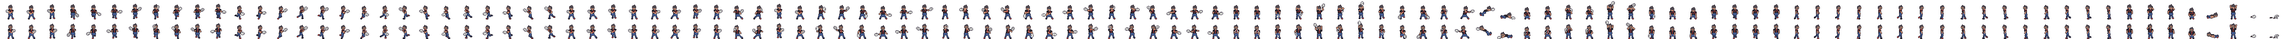
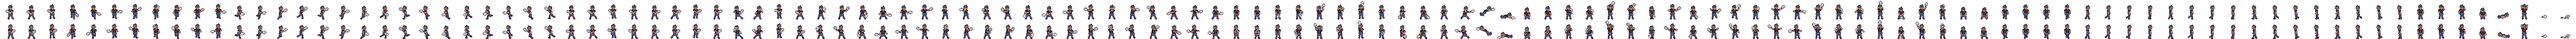
Tenis: los gestos de cada uno (el baile, el grito, la raqueta estrellada...) y el revés a una mano de Fedorer

Changed region(s): [[0.0, 0.5938, 1.0, 1.0], [0.0, 0.0938, 1.0, 0.5]]

diff --git a/tools/art/draw_tenistas.py b/tools/art/draw_tenistas.py
@@ -348,6 +348,38 @@ POSE["levanta1"] = P(kl=(-3, 31), fl=(-4, 33), kr=(3, 31), fr=(4, 33), el=(-6, 2
                      rk=(-120, False), lean=7)
 POSE["levanta2"] = P(**WIDE, el=(-6, 17), hl=(-4, 21), er=(6, 17), hr=(6, 21), rk=(-130, False), lean=4)
 
+# Lo de cada uno, al ganar o perder un punto (TenisAnim.PERSONA dice quién hace qué).
+_STAND = dict(kl=(-3, 27), fl=(-4, 33), kr=(3, 27), fr=(4, 33))
+POSE["encoge"] = P(**_STAND, el=(-8, 16), hl=(-10, 14), er=(8, 16), hr=(10, 14), rk=(-35, False), lean=-1)  # Bublikov: y qué
+POSE["grita"] = P(**WIDE, el=(-6, 17), hl=(-4, 21), er=(6, 17), hr=(4, 21), rk=(65, False), lean=3, yell=True)  # Sabalenkova
+POSE["baila1"] = P(kl=(-3, 27), fl=(-4, 33), kr=(4, 26), fr=(5, 30), el=(-7, 12), hl=(-9, 9), er=(7, 17), hr=(9, 19),
+                   rk=(-60, False), lean=1, tilt=2)                                                      # Monfiz
+POSE["baila2"] = P(kl=(-4, 26), fl=(-5, 30), kr=(3, 27), fr=(4, 33), el=(-7, 17), hl=(-9, 19), er=(7, 12), hr=(9, 9),
+                   rk=(-80, False), lean=1, tilt=-2)
+POSE["pecho"] = P(**_STAND, el=(-6, 16), hl=(-2, 15), er=(6, 16), hr=(2, 15), rk=(-60, False), lean=1, fwd=("l", "r"))  # Yokovich
+POSE["abre"] = P(**_STAND, el=(-8, 13), hl=(-11, 11), er=(8, 13), hr=(11, 11), rk=(-40, False), lean=-1)
+POSE["reclama"] = P(**_STAND, el=(-7, 16), hl=(-9, 15), er=(7, 16), hr=(10, 15), rk=(10, False), tilt=2, head_dx=1, lean=1)  # Moutette
+POSE["oreja"] = P(**_STAND, el=(-7, 10), hl=(-5, 8), er=(7, 12), hr=(9, 8), rk=(-80, False), tilt=1)  # Tiafuego: más duro
+POSE["llama"] = P(**_STAND, el=(-7, 11), hl=(-4, 7), er=(6, 16), hr=(7, 20), rk=(-100, False))  # Sheltron: el teléfono
+POSE["cuelga"] = P(**_STAND, el=(-7, 14), hl=(-10, 17), er=(6, 16), hr=(7, 20), rk=(-100, False), lean=1)
+POSE["rompe1"] = P(**_STAND, el=(-5, 9), hl=(-1, 4), er=(5, 9), hr=(1, 4), rk=(-90, False), two=True, lean=-1)  # Kyrgistán
+POSE["rompe2"] = P(**WIDE, el=(-5, 18), hl=(-1, 23), er=(5, 18), hr=(1, 23), rk=(90, True), two=True, lean=4, down=True)
+POSE["saluda"] = P(**_STAND, el=(-6, 16), hl=(-6, 20), er=(7, 10), hr=(9, 6), rk=(-75, False))  # Fedorer: con clase
+POSE["mira"] = P(**_STAND, el=(-6, 16), hl=(-6, 20), er=(4, 14), hr=(2, 11), rk=(-95, False))  # él: mira la raqueta
+
+# El revés a una mano (Fedorer): la izquierda acompaña la raqueta hasta atrás y, al pegarle, se va para
+# atrás (el equilibrio); al final, los dos brazos abiertos.
+ONE_HAND = {
+    "reves_prep": dict(two=False, el=(-3, 16), hl=(-4, 17)),
+    "reves_atras": dict(two=False, el=(-3, 14), hl=(-6, 14)),
+    "reves_baja": dict(two=False, el=(-3, 17), hl=(-6, 18)),
+    "reves": dict(two=False, el=(-7, 15), hl=(-10, 16)),
+    "reves_bajo": dict(two=False, el=(-7, 17), hl=(-10, 18)),
+    "reves_alto": dict(two=False, el=(-7, 13), hl=(-10, 13)),
+    "reves_fin1": dict(two=False, el=(-7, 14), hl=(-10, 14)),
+    "reves_fin": dict(two=False, el=(-7, 14), hl=(-10, 13)),
+}
+
 POSES = (["listo", "listo2", "listo3"] + ["corre%d" % i for i in range(1, 9)]
          + ["lado%d_d" % i for i in range(1, 9)] + ["lado%d_i" % i for i in range(1, 9)]
          + ["paso%d_d" % i for i in range(1, 5)] + ["paso%d_i" % i for i in range(1, 5)]
@@ -358,6 +390,8 @@ POSES = (["listo", "listo2", "listo3"] + ["corre%d" % i for i in range(1, 9)]
             "saque_bota1", "saque_bota2", "saque_baja", "saque_lanza", "saque_trofeo", "saque_rasca", "saque",
             "saque_fin1", "saque_fin", "abajo_atras", "abajo",
             "tirada1", "tirada", "piso", "levanta1", "levanta2", "puno1", "puno2", "celebra", "agarra", "bravo",
+            "encoge", "grita", "baila1", "baila2", "pecho", "abre", "reclama", "oreja", "llama", "cuelga",
+            "rompe1", "rompe2", "saluda", "mira",
             "agachado", "recoge", "camina1", "camina2", "camina3", "camina4"]
          + ["caminal%d_d" % i for i in range(1, 9)] + ["caminal%d_i" % i for i in range(1, 9)]
          + ["parado", "tel1", "tel2", "doblado", "acostado", "brazos", "suelta", "rota"])
@@ -427,7 +461,7 @@ PLAYERS = {
         "s": (232, 180, 150), "S": (202, 140, 118), "h1": (108, 78, 58), "h2": (82, 58, 44),
         "t": (244, 244, 240), "T": (200, 202, 208), "p": (244, 244, 240), "P": (196, 198, 204),
         "w": (240, 240, 236), "k": (240, 240, 236), "K": (196, 198, 204), "a": (244, 244, 240),
-        "r": (190, 40, 44), "hair": "corto"},
+        "r": (190, 40, 44), "hair": "corto", "one_hand": True},
     "camillero": {
         "h": 1, "sh": 5, "slouch": 0, "skirt": False, "long": True,
         "s": (200, 146, 112), "S": (166, 112, 88), "h1": (38, 32, 34), "h2": (60, 50, 50),
@@ -548,6 +582,8 @@ def draw(pid: str, pose: str, front: bool, q=None):
     raqueta, "hl": la mano izquierda} en coordenadas de la celda."""
     d = PLAYERS[pid]
     q = q if q is not None else POSE[pose]
+    if d.get("one_hand") and pose in ONE_HAND:  # (Fedorer: el revés a una mano)
+        q = dict(q, **ONE_HAND[pose])
     cv = Canvas()
     meta = {"rk": None, "hl": None}
     if q.get("only"):  # la raqueta sola, en el piso
@@ -666,6 +702,8 @@ def draw(pid: str, pose: str, front: bool, q=None):
     hx, hy = int(round(head_at[0])) - 4, int(round(head_at[1])) - 4
     cv.line(neck, (neck[0], neck[1] - 1), d["s"])
     head(cv, d, hx, hy, front)
+    if q.get("yell") and front:  # gritando: la boca abierta
+        cv.rect(hx + 3, hy + 6, hx + 4, hy + 7, (60, 20, 30))
 
     # 6) Lo que va delante.
     if has_rk and rk_front:
@@ -1126,7 +1164,7 @@ def main():
         info[pid] = meta_json(metas)
     # Él con la raqueta de cada uno (cuando termina el partido del que abandonó).
     for pid in [k for k in PLAYERS if k not in ("el", "camillero")]:
-        PLAYERS["el_" + pid] = dict(PLAYERS["el"], r=PLAYERS[pid]["r"])
+        PLAYERS["el_" + pid] = dict(PLAYERS["el"], r=PLAYERS[pid]["r"])  # (con su revés de siempre)
         im, metas = sheet("el_" + pid)
         im.save(OUT / f"el_{pid}.png")
         info["el_" + pid] = meta_json(metas)

diff --git a/docs/TENIS.md b/docs/TENIS.md
@@ -163,16 +163,18 @@ Ganando las cuatro jornadas se juntan unos $147.000; trabajando las cuatro y per
 **Los tenistas** salen de `tools/art/draw_tenistas.py` y quedan en `assets/tenis/<id>.png`.
 - Celdas de 50x48 con los pies en (25, 46): cabe el saque estirado y la raqueta con el brazo afuera sin cortarse. La fila 0 es de espaldas (el de abajo) y la fila 1 de frente (el de arriba).
 - `assets/tenis/tenistas.json` trae el orden de las columnas y, por pose, dónde queda la cabeza de la raqueta (y la mano de la pelota en el saque). Con eso, al pegarle, la pelota sale de la raqueta y la del saque va en la mano.
-- Hay 110 poses:
+- Hay 124 poses:
   - **Correr de perfil** (8 cuadros, para cada lado): un ciclo de carrera de verdad. Las piernas van con ángulos y largos fijos (el pie no se estira ni se encoge), la cadera baja en el apoyo y sube en el vuelo, los brazos van al revés de las piernas. El brazo y la pierna de allá van detrás y más oscuros. La cabeza de lado tiene ojo, nariz, oreja y el pelo de cada uno (la cola de Sabalenkova, la visera de Kyrgistán para atrás, las trencitas...). A él la corbata le vuela por encima del hombro.
   - **Correr de espaldas y de frente** (8 cuadros): un pie en el piso y el otro con el talón arriba, el cuerpo que sube y baja, los brazos alternados. El brazo que va adelante se tapa con el cuerpo.
   - **Pasitos de lado** (4 cuadros, para cada lado, sin dar la espalda a la red), **frenar** (para cada lado) y **el saltito** (2).
   - **El drive y el revés** (8 cada uno): se gira, la raqueta arriba y atrás, baja, le pega bajito, a la cintura o alto, y termina por encima del hombro (en dos cuadros). El **cortado** (3) y la **dejada**.
   - **El saque** (9): bota la pelota (2), bajan los brazos, la tira, el trofeo (rodillas dobladas, la raqueta arriba), la raqueta detrás de la espalda, le pega estirado y en puntas, y cae hacia adelante (2). El **saque por abajo** (2).
   - **La espera** (3): rebota en las puntas. **Celebrar** (3): el puño dos veces, "¡vamos!", y los brazos arriba. **Lamentarse** (2): las manos en la cabeza y la cabeza agachada.
+  - **Lo de cada uno** (14, `TenisAnim.PERSONA`): Bublikov se encoge de hombros (gane o pierda); Sabalenkova grita con los puños abajo; Monfiz baila; Yokovich, las manos al pecho y los brazos abiertos al público; Moutette le reclama al juez; Tiafuego, la mano en la oreja (más duro); Sheltron, el teléfono y cuelga; Kyrgistán abre los brazos al ganar y, al perder, levanta la raqueta y la estrella contra el piso; Fedorer saluda con la raqueta. Él, cuando gana un punto, se queda mirando la raqueta.
   - **Tirarse** (2: el impulso y el vuelo), en el piso, y **levantarse** (2: de rodillas, agachado).
   - **Caminar** de espaldas o de frente (4) y de perfil (8, para cada lado), sin raqueta: los que se van de la cancha y los camilleros.
   - Las del recogebolas, las de irse (parado, el celular, doblado, acostado, los brazos arriba) y la raqueta en el piso (entera y rota).
+- Fedorer tiene el revés a una mano (`ONE_HAND`): la izquierda acompaña la raqueta y, al pegarle, se va para atrás. Él, con la raqueta de Fedorer, sigue con su revés a dos manos.
 - Los cuadros del medio salen de mezclar dos poses (`mix`), y los de un lado tienen su espejo (`mirror`) que deja la raqueta en la mano derecha. De frente, y en los zurdos, la hoja se arma con el lado cambiado.
 - `camillero.png`: los que se llevan a Monfiz y a Pecador (de blanco, con la cruz roja), con las mismas poses.
 - Cada pose es un esqueleto que se pinta con piezas de 2 px. Después va el contorno del juego y encima, a mano, lo de cada uno:
@@ -250,7 +252,7 @@ Todas corren sin ventana:
 
 `TENIS_ONLY=unit|sim|counter` corre solo una parte y `TENIS_N` pone los partidos por cruce.
 
-**`tenis_tests.gd`** (64 pruebas): el conteo; que el error baje con la precisión y quede acotado; la misma semilla da el mismo partido; cómo se reparten los puntos; y el cuadro (la siembra, la previa, avanzar, no anotar dos veces, guardar y cargar, el torneo entero con un solo campeón, la bolsa, cuadros de 4 y de 5, simular hasta tu partido y que cada ronda tenga un formato que exista) y la historia (las fechas, que cada uno tenga cómo abandonar y cómo irse de la cancha, quién abandona, la paga y que alcance para la deuda solo trabajando bien), que cada texto que pide el código esté en `TEXTOS` y que el VS quepa al lado de los botones. Y el dibujo en movimiento: un partido entero mirado cuadro por cuadro (cada pose que pide `TenisAnim` está en las hojas y se ve de todo), que el saque salga cuando llega la raqueta, que corriendo de lado el cuadro cambie con la distancia y el contacto según la altura.
+**`tenis_tests.gd`** (66 pruebas): el conteo; que el error baje con la precisión y quede acotado; la misma semilla da el mismo partido; cómo se reparten los puntos; y el cuadro (la siembra, la previa, avanzar, no anotar dos veces, guardar y cargar, el torneo entero con un solo campeón, la bolsa, cuadros de 4 y de 5, simular hasta tu partido y que cada ronda tenga un formato que exista) y la historia (las fechas, que cada uno tenga cómo abandonar y cómo irse de la cancha, quién abandona, la paga y que alcance para la deuda solo trabajando bien), que cada texto que pide el código esté en `TEXTOS` y que el VS quepa al lado de los botones. Y el dibujo en movimiento: un partido entero mirado cuadro por cuadro (cada pose que pide `TenisAnim` está en las hojas y se ve de todo), que el saque salga cuando llega la raqueta, que corriendo de lado el cuadro cambie con la distancia, el contacto según la altura y los gestos de cada uno.
 
 **`tenis_roster.gd`, la parte `unit`** (44 pruebas):
 - Activar, gastar, no activar dos veces, acabarse a los golpes y al final del punto, y la espera.
